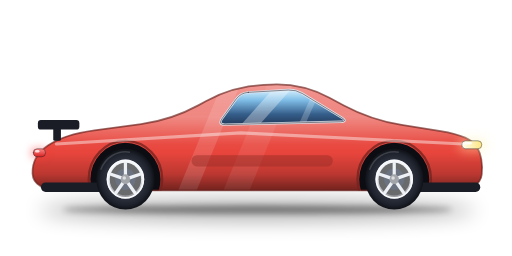
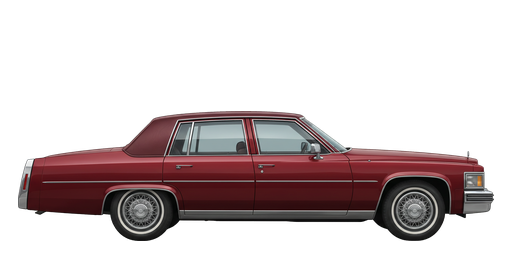
Garaj: yeni spor.png 512x256'ya uyarlandı (5 MB → 73 KB); scripts/fit_car.py
Claude-Session: https://claude.ai/code/session_01AkZALok8tEA9mkB9VSDb34

diff --git a/scripts/fit_car.py b/scripts/fit_car.py
@@ -1,0 +1,23 @@
+# Dışarıdan (ör. yapay zekâyla) üretilen araba görselini oyuna uygun hâle getirir:
+# yarı saydam pusu temizler, arabayı kırpar, 512x256 tuvale diğer arabalarla aynı hizada (zemin y=241) yerleştirir.
+# Kullanım: python3 scripts/fit_car.py assets/cars/spor.png [başka.png ...]
+import sys
+from PIL import Image
+
+W, H, GROUND, MAXW, MAXH = 512, 256, 241, 476, 158
+
+for path in sys.argv[1:]:
+    im = Image.open(path).convert('RGBA')
+    r, g, b, a = im.split()
+    a = a.point(lambda v: 0 if v <= 24 else v)
+    im = Image.merge('RGBA', (r, g, b, a))
+    box = a.getbbox()
+    if not box:
+        print(path, ': görsel boş (saydam)'); continue
+    car = im.crop(box)
+    s = min(MAXW / car.width, MAXH / car.height)
+    car = car.resize((round(car.width * s), round(car.height * s)), Image.LANCZOS)
+    out = Image.new('RGBA', (W, H), (0, 0, 0, 0))
+    out.alpha_composite(car, ((W - car.width) // 2, GROUND - car.height))
+    out.save(path, optimize=True)
+    print(path, '→', out.size, 'araba', car.size)
